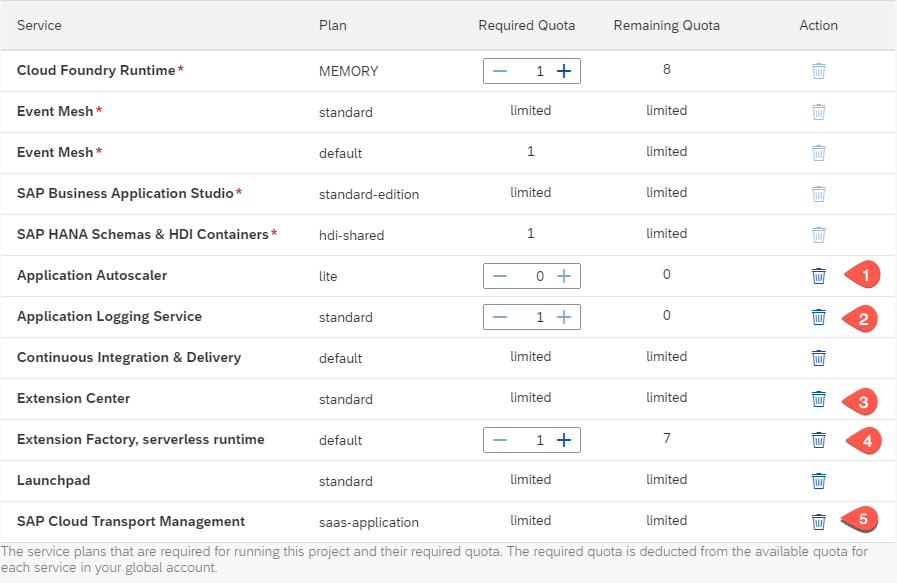
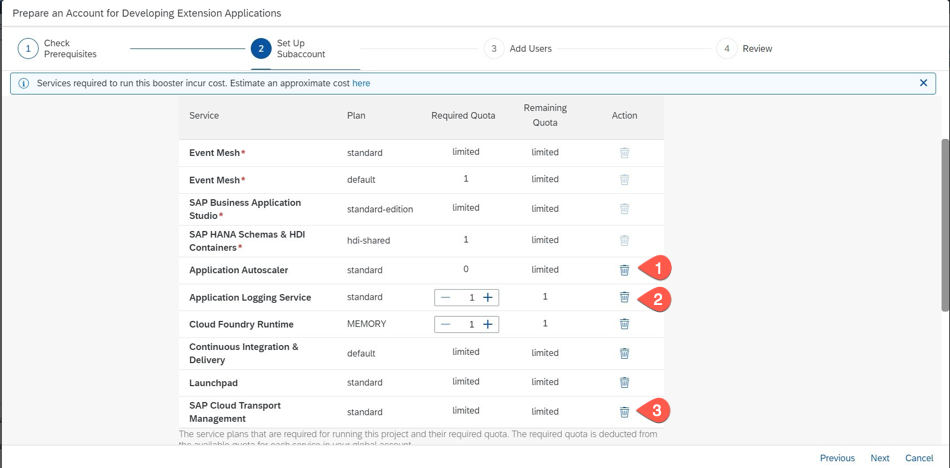
update screenshot

diff --git a/mission/scp-setup/README.md b/mission/scp-setup/README.md
@@ -69,7 +69,7 @@ Unfortunately, the booster is not able to check this in advance, so it will fail
 5. Set up your subaccount.
    
 You find the list of the services that will be activated by this booster. For this mission, the **SAP Continuous Integration & Delivery** service is optional. Remove it if you don't want to use it.
-Services like **Application Autoscaler**, **Application Logging**, **Extension Center**, **Extension Factory serverless runtime** and the **SAP Cloud Transport Management Service** are not used in this  mission, you can remove them.     
+Services like **Application Autoscaler**, **Application Logging**, and the **SAP Cloud Transport Management Service** are not used in this  mission, you can remove them.     
    
    ![Booster](./images/booster-05.png)
 
@@ -105,13 +105,14 @@ Services like **Application Autoscaler**, **Application Logging**, **Extension C
     ![Booster](./images/booster-10.png)
 
 10. To check your subaccount, choose **Security** > **Role Collection**.
-    You will find the **Extension_App_Administrator** and the **Extension_App_Developer** role collections. If you want to add more users to the mission, you have to assign to their users one of these role collections.
+    You will find the **Extension\_App\_Administrator** and the **Extension\_App\_Developer** role collections. If you want to add more users to the mission, you have to assign to their users one of these role collections.
 
     ![Booster](./images/booster-11.png)
 
     Go to **Instances and Subscriptions** and choose the **Subscription** tab. Check if the following subscriptions are enabled:
     * SAP Business Application Studio
     * SAP Event Mesh
+    * SAP Launchpad service
     * SAP Continuous Integration & Delivery (only when selected in the booster)   
     
     ![Booster](./images/booster-12.png)
@@ -138,7 +139,6 @@ Services like **Application Autoscaler**, **Application Logging**, **Extension C
    > For more information, see [Creating SAP HANA Cloud Instances](https://help.sap.com/viewer/9ae9104a46f74a6583ce5182e7fb20cb/hanacloud/en-US/784a1dbb421a4da29fb1e3bdf5f198ec.html).
 
    
-
 
 ### B: Create a SAP HANA Cloud Service Instance
 
